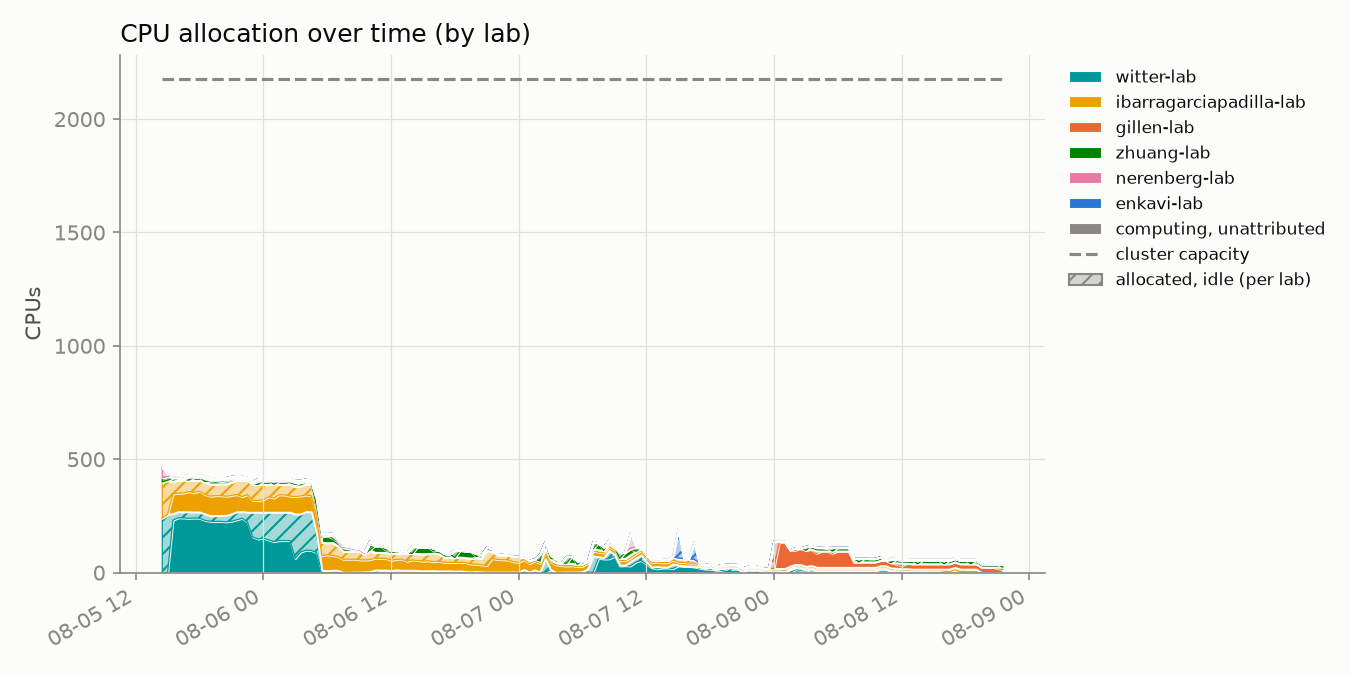
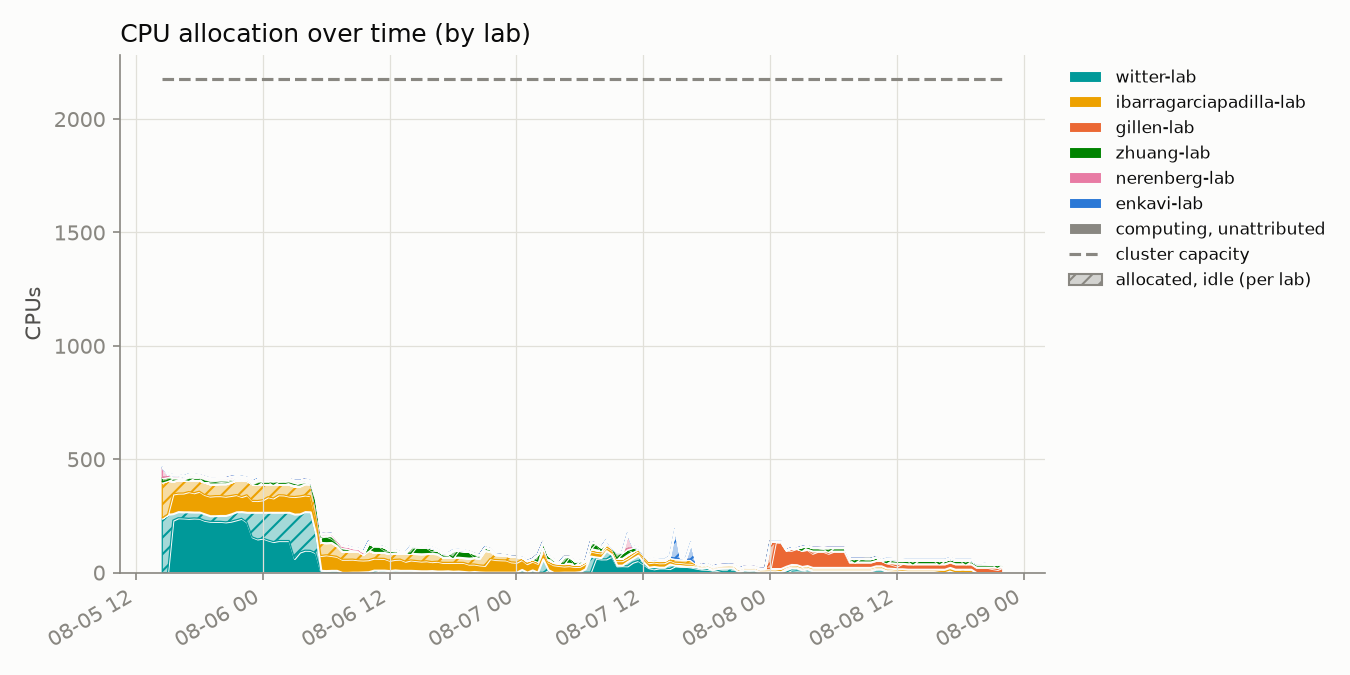
update 2026-08-08T22:00:01-07:00

diff --git a/README.md b/README.md
@@ -2,8 +2,8 @@
 
 Automated GPU/CPU/queue utilization tracker for `hopper.cluster`, updated every 30 minutes by cron. Usernames are anonymized to a stable per-account pseudonym; lab names are real.
 
-Last updated: 2026-08-08T21:30:09-07:00
-Samples: 159 queue snapshots, 159 GPU snapshots
+Last updated: 2026-08-08T22:00:09-07:00
+Samples: 160 queue snapshots, 160 GPU snapshots
 
 ## Resources
 
@@ -16,25 +16,25 @@ Samples: 159 queue snapshots, 159 GPU snapshots
 
 ## Headline
 
-- **42.4%** of the cluster's 60 GPUs allocated, averaged across all samples
-- **45.4%** average `nvidia-smi` utilization *when* a GPU is allocated to a job
+- **42.3%** of the cluster's 60 GPUs allocated, averaged across all samples
+- **45.3%** average `nvidia-smi` utilization *when* a GPU is allocated to a job
 - **88.5%** average cgroup CPU utilization *when* a CPU is allocated to a job
 
 ## Per lab / per user
 
 <table>
 <tr><th>Lab</th><th>User</th><th align='right'>GPU-hours allocated</th><th align='right'>CPU-hours allocated</th><th align='right'>GPU utilization</th></tr>
-<tr style='background-color:#d8ecd8'><td>zhuang-lab</td><td>user-0db9ced0</td><td align='right'>999.0</td><td align='right'>999.0</td><td align='right'>41%</td></tr>
+<tr style='background-color:#d8ecd8'><td>zhuang-lab</td><td>user-0db9ced0</td><td align='right'>1006.5</td><td align='right'>1006.5</td><td align='right'>41%</td></tr>
 <tr style='background-color:#d8efef'><td>witter-lab</td><td>user-554c620c</td><td align='right'>493.5</td><td align='right'>1023.0</td><td align='right'>68%</td></tr>
 <tr style='background-color:#d8efef'><td>witter-lab</td><td>user-d58f5a15</td><td align='right'>467.5</td><td align='right'>3740.0</td><td align='right'>9%</td></tr>
 <tr style='background-color:#fbebf1'><td>nerenberg-lab</td><td>user-6bb5f332</td><td align='right'>40.0</td><td align='right'>200.0</td><td align='right'>71%</td></tr>
 <tr style='background-color:#fbebf1'><td>nerenberg-lab</td><td>user-fedb5feb</td><td align='right'>22.5</td><td align='right'>54.0</td><td align='right'>67%</td></tr>
 <tr style='background-color:#fcf0d8'><td>ibarragarciapadilla-lab</td><td>user-3cfc41a3</td><td align='right'>0.0</td><td align='right'>4080.0</td><td align='right'>—</td></tr>
-<tr style='background-color:#fce8e0'><td>gillen-lab</td><td>user-b89a87ef</td><td align='right'>0.0</td><td align='right'>960.0</td><td align='right'>—</td></tr>
-<tr style='background-color:#fbebf1'><td>nerenberg-lab</td><td>user-b12dc074</td><td align='right'>0.0</td><td align='right'>16.0</td><td align='right'>—</td></tr>
-<tr style='background-color:#fcf0d8'><td>ibarragarciapadilla-lab</td><td>user-eec7ffae</td><td align='right'>0.0</td><td align='right'>426.5</td><td align='right'>—</td></tr>
+<tr style='background-color:#fce8e0'><td>gillen-lab</td><td>user-b89a87ef</td><td align='right'>0.0</td><td align='right'>972.0</td><td align='right'>—</td></tr>
 <tr style='background-color:#dfeaf8'><td>enkavi-lab</td><td>user-c21bdaa4</td><td align='right'>0.0</td><td align='right'>209.0</td><td align='right'>—</td></tr>
 <tr style='background-color:#fcf0d8'><td>ibarragarciapadilla-lab</td><td>user-dad71a72</td><td align='right'>0.0</td><td align='right'>6.0</td><td align='right'>—</td></tr>
+<tr style='background-color:#fcf0d8'><td>ibarragarciapadilla-lab</td><td>user-eec7ffae</td><td align='right'>0.0</td><td align='right'>426.5</td><td align='right'>—</td></tr>
+<tr style='background-color:#fbebf1'><td>nerenberg-lab</td><td>user-b12dc074</td><td align='right'>0.0</td><td align='right'>16.0</td><td align='right'>—</td></tr>
 </table>
 
 ## Usage over time
@@ -45,7 +45,7 @@ Samples: 159 queue snapshots, 159 GPU snapshots
 
 Solid = utilized by lab, hatched = allocated but idle, gray = usage not traceable to a lab, dashed line = cluster capacity.
 
-Attribution combines `nvidia-smi`'s process listing with Slurm's GPU-to-job binding record; the latter caught **2908** readings the former missed.
+Attribution combines `nvidia-smi`'s process listing with Slurm's GPU-to-job binding record; the latter caught **2920** readings the former missed.
 
 ## Queue
 
@@ -57,13 +57,13 @@ Attribution combines `nvidia-smi`'s process listing with Slurm's GPU-to-job bind
 
 ![CPU usage vs GPU usage, decayed](assets/cpu_gpu_usage.png)
 
-One point per user per snapshot (n=743), usage decayed on Slurm's ~7-day fairshare half-life.
+One point per user per snapshot (n=745), usage decayed on Slurm's ~7-day fairshare half-life.
 
 **GPU usage doesn't count toward priority on this cluster** (`TRESBillingWeights`/`PriorityWeightTRES` unset) - watch the **upper-left**: low CPU usage (high priority) with high GPU usage.
 
 ## Recommendations
 
-1. **Weight GPU usage in fairshare.** `TRESBillingWeights` and `PriorityWeightTRES` are both unset right now, so Slurm's fairshare score only sees CPU-seconds - a job holding 4 idle L40S GPUs costs nothing in priority as long as it isn't also holding CPUs. That's the exact failure mode the scatter above is built to catch (upper-left: low CPU usage, high GPU usage). Fix: `scontrol update partition=main TRESBillingWeights=CPU=1.0,GRES/gpu=<weight>` (or set `PriorityWeightTRES` cluster-wide), then `scontrol reconfigure` - a full `slurmctld` restart also works but drops in-flight priority state. A reasonable starting point for `<weight>` is the CPUs-per-GPU ratio on a GPU node (128 CPUs / 4 GPUs = 32), so one GPU costs as much fairshare as the CPU share it displaces; tune from there against next week's headline numbers (42.4% allocated, 45.4% utilized when allocated, as of this snapshot). The weight value itself is a policy call - loop in whoever owns cluster allocation policy before changing it.
+1. **Weight GPU usage in fairshare.** `TRESBillingWeights` and `PriorityWeightTRES` are both unset right now, so Slurm's fairshare score only sees CPU-seconds - a job holding 4 idle L40S GPUs costs nothing in priority as long as it isn't also holding CPUs. That's the exact failure mode the scatter above is built to catch (upper-left: low CPU usage, high GPU usage). Fix: `scontrol update partition=main TRESBillingWeights=CPU=1.0,GRES/gpu=<weight>` (or set `PriorityWeightTRES` cluster-wide), then `scontrol reconfigure` - a full `slurmctld` restart also works but drops in-flight priority state. A reasonable starting point for `<weight>` is the CPUs-per-GPU ratio on a GPU node (128 CPUs / 4 GPUs = 32), so one GPU costs as much fairshare as the CPU share it displaces; tune from there against next week's headline numbers (42.3% allocated, 45.3% utilized when allocated, as of this snapshot). The weight value itself is a policy call - loop in whoever owns cluster allocation policy before changing it.
 
 2. **Escalate on sustained low utilization** (see table and scatter above). Right now the clearest candidate is `user-d58f5a15` in `witter-lab`: 467.5 GPU-hours allocated at 9% average utilization, i.e. roughly 424 GPU-hours that sat idle instead of going to someone in the queue. Turning that into an automated escalation needs two decisions made up front: a utilization threshold (something like under 20% mean utilization over at least 50 allocated GPU-hours is a defensible starting bar - loose enough to skip short debugging runs, tight enough to catch parked allocations) and a grace period (how many consecutive low-utilization snapshots before it counts as "sustained" rather than a momentary lull between batches). Once those are set, the mechanism can be either soft (a bot that reads `data/gpu_samples.jsonl` and reminds the user/lab by email or Slack) or hard (a Slurm-side QOS penalty, e.g. `sacctmgr modify qos <qos> set Priority-=<n>`, applied after N consecutive offending snapshots). Neither exists yet - today the table and scatter above are a read-only signal, not an enforced policy.
 
